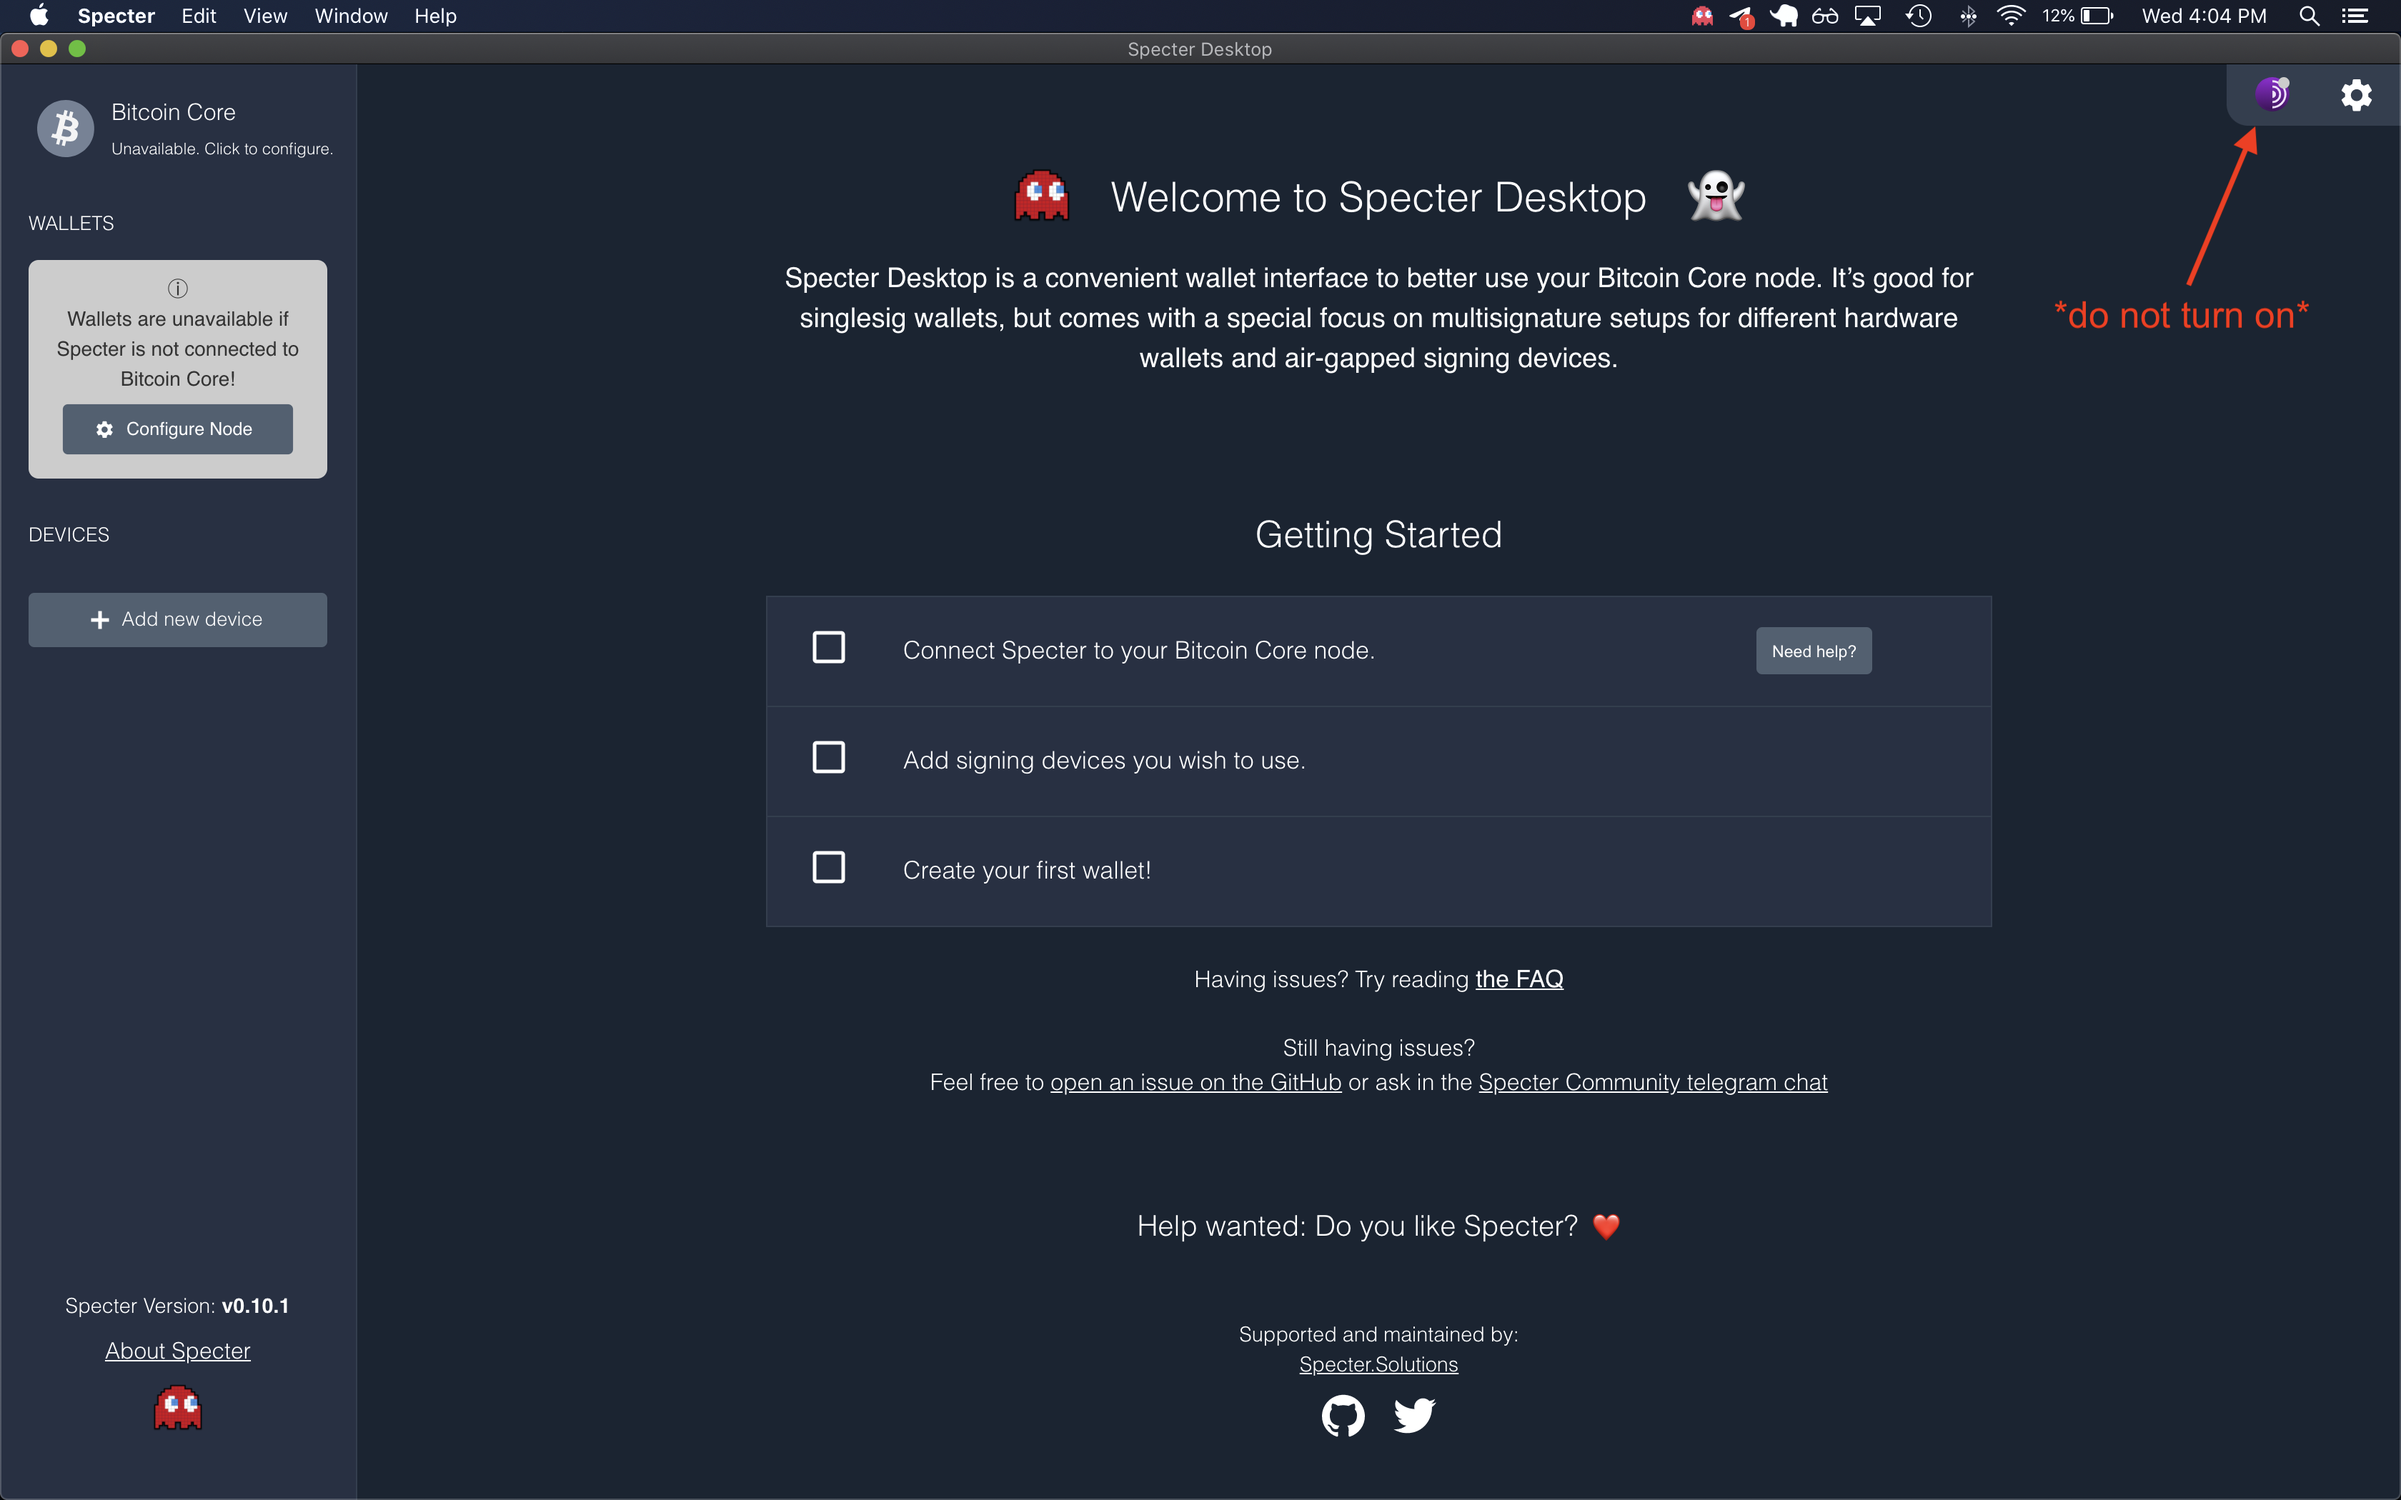
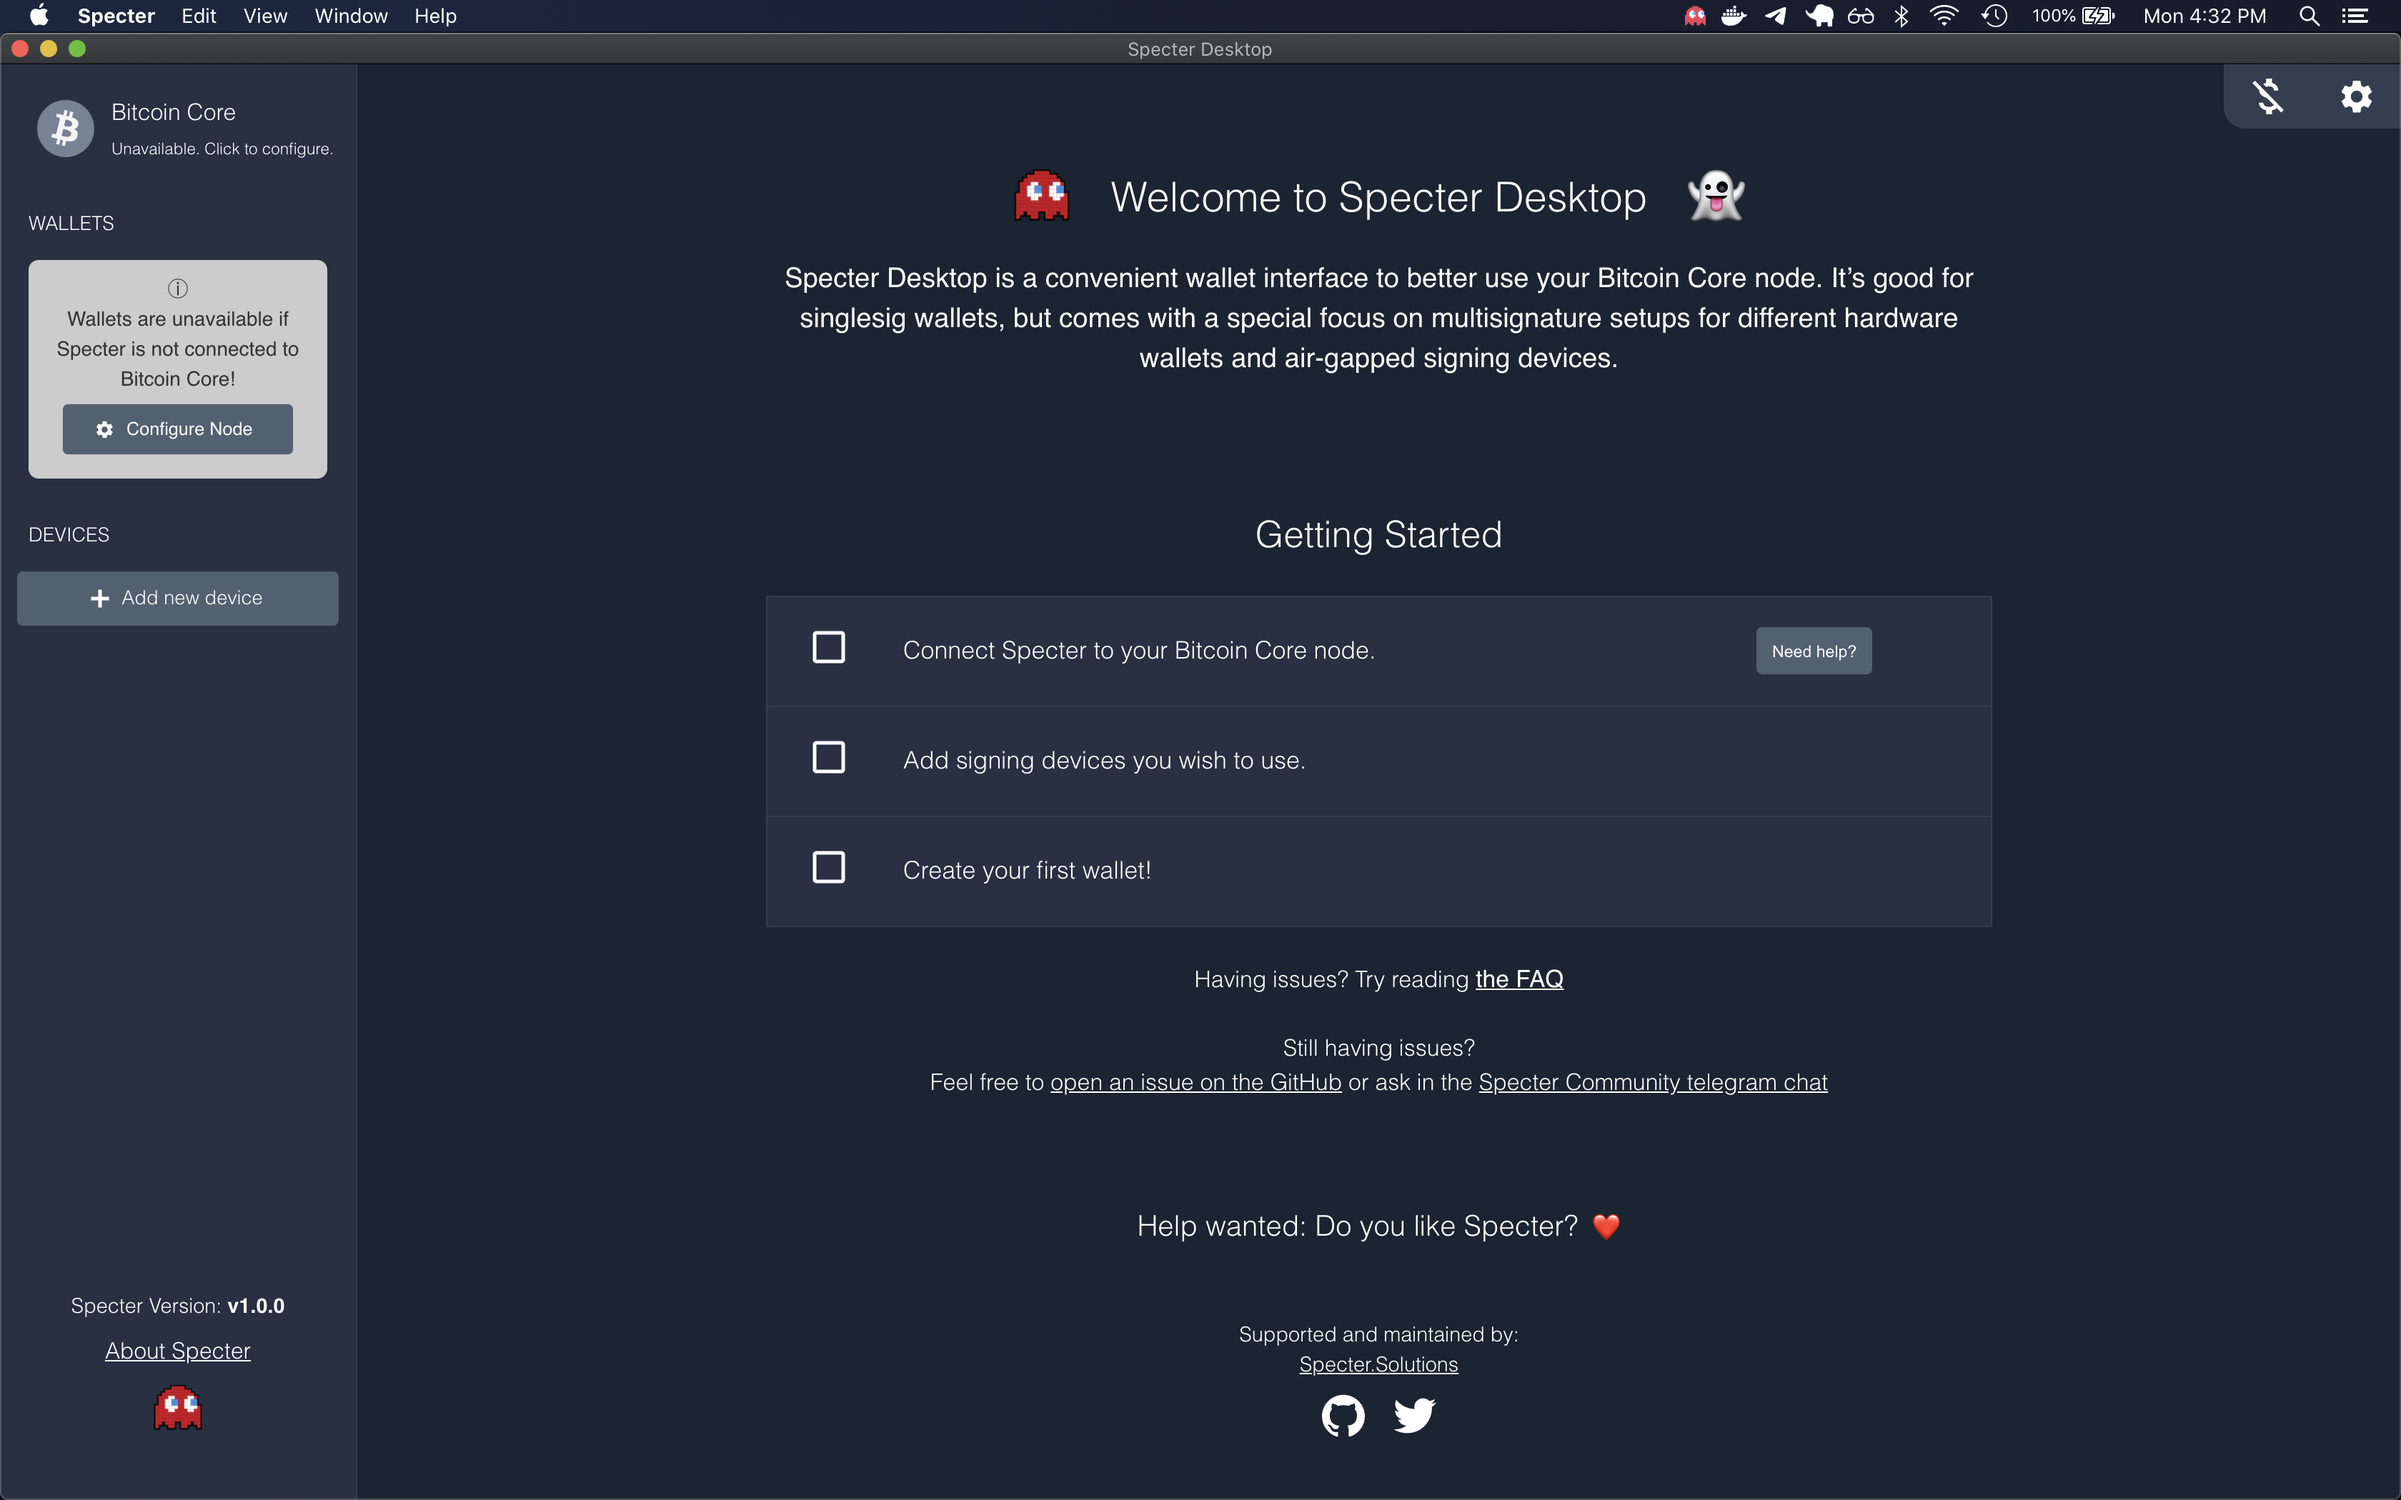
update specter guides

diff --git a/docs/integrations/specter/macos.md b/docs/integrations/specter/macos.md
@@ -1,0 +1,93 @@
+# Specter Desktop - MacOS
+
+Original Author: Community Member [@Chiefmonkey](https://twitter.com/HodlrDotRocks>)
+
+The Tor address provided by the Embassy's Bitcoin service can be used in the configuration settings for [Specter Desktop](https://github.com/cryptoadvance/specter-desktop>).
+
+## Step 1 - Install Homebrew
+
+### For macOS running on ARM chips (ie. newer macs):
+
+- macOS Homebrew running natively on M1/Apple Silicon/ARM has partial functionality. Therefore, some additional steps are needed to setup Homebrew.
+
+- Open a command line editor (Terminal), and run the following commands:
+
+  ``softwareupdate --install-rosetta``
+
+  ``arch -x86_64 /bin/bash -c "$(curl -fsSL https://raw.githubusercontent.com/Homebrew/install/master/install.sh)"``
+
+- Use this to install packages:
+
+  ``arch -x86_64 brew install <package>``
+
+:warning: macOS Homebrew running natively on M1/Apple Silicon/ARM has partial functionality
+
+### For macOS Big Sur/Catalina:
+
+- If you do not have Homebrew installed, follow the installation instructions here [here](https://brew.sh/).
+
+- tldr; Open the command line editor (Terminal) and paste the following line:
+
+  ``/bin/bash -c "$(curl -fsSL https://raw.githubusercontent.com/Homebrew/install/master/install.sh)"``
+
+- You will be prompted for your system password before installation; proceed with entering your password:
+
+![Homebrew installation](./assets/install-homebrew.png "Homebrew installation")
+
+- You will be notified which directories Homebrew is going to create, hit ``return``:
+
+![Homebrew directories](./assets/install-homebrew1.png "Homebrew directories")
+
+- Homebrew creates the directories and downloads any other files it needs e.g. “Command Line Tool for Xcode” and “Homebrew”.
+
+- Wait 5 minutes whilst it downloads and installs what it needs.
+
+Surprisingly, Homebrew uses Google Analytics to collect anonymous usage data. You can deselect the option to share usage data [by opting out](https://docs.brew.sh/Analytics#opting-out).
+
+
+## Step 2 - Install Tor
+
+:note: If you have the Tor Browser is open, close it and quit the application.
+
+- For macOS machines prior to December 2020 (pre-ARM chips), in the command line type: ``brew install tor``
+- For macOS with ARM chips, in the command line type: ``arch -x86_64 brew install tor``
+
+- See [the tor project](https://2019.www.torproject.org/docs/tor-doc-osx.html.en) for more details.
+
+- Once it is finished you have the following options:
+
+![Install Tor](./assets/install_tor.png "Install Tor")
+
+- In the command line type ``brew services start tor`` or ``arch -x86_64 services start tor``. This will start Tor and ensure that it is always running, even after a restart.
+
+## Step 3 - Download and Configure Specter
+
+- [Download Specter](https://github.com/cryptoadvance/specter-desktop/releases) at the latest release version.
+
+- Drag and drop the Specter icon into Applications once downloaded.
+
+- Launch Specter.
+
+- **Notice the Tor icon in the top right corner. *Do not turn it on*. You already have Tor running on your computer, there is no reason to also enable it in Specter.**
+
+- Click ``Connect Specter to your Bitcoin node``
+
+![Welcome](./assets/welcome.png "Welcome")
+
+- Disable `Auto-detect`
+- Obtain your credentials for Bitcoin Proxy from your Embassy:
+  - Navigate to the Bitcoin Proxy service
+  - If you have not yet already created a Bitcoin Proxy user for Specter, navigate to `Config > RPC Users` and click the (+) in the top right corner to add a new RPC user
+  - Once a RPC user for Specter is created, copy the password under this user in `Config options > RPC Users` OR navigate to `Properties > RPC users` from the Bitcoin Proxy service menu and select the user created for Specter to copy the password
+- Paste these RPC credentials in Specter in the `Bitcoin JSON-RPC configuration` menu
+- Copy and paste your Bitcoin Proxy Tor address into the Host input under `Bitcoin JSON-RPC configuration` menu
+
+![Add node](./assets/add_node.png "Add node")
+
+- Click `Test`. It can take a few minutes. If all is well several green checkboxes will appear and some config settings.
+
+![Add node](./assets/specter_test_results.png "Add node")
+
+- Click `Save`.
+
+Have a beer and some tacos before journeying further into the rabbit hole.

diff --git a/docs/integrations/specter/windows.md b/docs/integrations/specter/windows.md
@@ -1,0 +1,80 @@
+# Specter Desktop - Windows
+
+Original Author: Community Member @julian
+
+[Why Specter](https://github.com/cryptoadvance/specter-desktop/blob/master/README.md#why)
+
+## Step 1 - Install Tor on Windows
+
+:warning: **DO NOT PROCEED** before [installing Tor](https://docs.start9labs.com/misc-guides/tor-os/index.html) on your machine!
+
+## Step 2 - Configure Specter RPC user in Bitcoin Proxy
+
+- Connect to your Embassy via browser on your Windows computer. 
+
+- Open the “Bitcoin Proxy” service
+
+![Bitcoin Proxy Service](./assets/bitcoin_proxy_service.png "Select the Bitcoin Proxy Service")
+
+- (optional) Copy Tor address (this will be needed in upcoming steps)
+
+- In the Bitcoin Proxy service, under General, select “Config”
+
+![Bitcoin Proxy Config submenu](./assets/bitcoin_proxy_config.png "Select Config on the Service Detail page")
+
+- Click on “RPC Users”
+
+![Bitcoin Proxy Config RPC User submenu](./assets/bitcoin_proxy_rpc.png "Bitcoin Proxy Config RPC User submenu")
+
+- Click on the “+” symbol in the upper-right corner to add a new user
+
+![Bitcoin Proxy Config RPC submenu](./assets/bitcoin_proxy_add_rpc_user.png "Bitcoin Proxy Config RPC submenu")
+
+- Create a user for the Specter app
+- Replace default user, bitcoin, with name of choice, ex: specter
+- Save password (this will be needed in upcoming steps)
+- Go back twice, then save
+- Go back and check the current list of users to confirm your user has been created.
+
+![RPC user confirmation](./assets/bitcoin_proxy_confirm_rpc_user.png "RPC user confirmation")
+
+- Download Specter-Setup-v[*.*.*].exe [here](https://github.com/cryptoadvance/specter-desktop/releases)
+- Install Specter
+- If “Microsoft Defender SmartScreen” blocks the install, select “More info”
+
+![Windows Defender SmartScreen](./assets/windows_smartscreen.png "Windows Defender SmartScreen")
+
+- Then, select “Run Anyway”
+
+![Windows Defender SmartScreen](./assets/windows_smart_screen_run.png "Windows Defender SmartScreen")
+
+Connect Specter to Bitcoin Proxy
+--------------------------------
+
+- After installation, run Specter
+- Click “Configure Node”
+
+![Specter Configure Node](./assets/specter_configure_node.png "Specter Configure Node")
+
+- Uncheck Auto-detect
+- Insert the required information:
+    - Username and password: created in previous steps (any user with bitcoin proxy access will work)
+    - Host: Bitcoin proxy Tor address 
+    - Port:8332
+- Save
+- Click Test 
+
+![Specter RPC configuration](./assets/specter_rpc_configuration.png "Select 'Test' to ensure the credentials are working properly")  
+
+- Ensure all tests pass
+
+![Specter RPC configuration test results view](./assets/specter_test_results.png "Specter RPC configuration test results view")
+
+**That's it!** Your Embassy's Bitcoin node is now connected to Specter. 
+
+### Note:
+If you notice this message:
+
+![Bitcoin Core Node info](./assets/core_info_error.jpg "Bitcoin Core Node info")
+
+Currently, ``blockfilterindex`` is disabled for pruned Bitcoin Core nodes, so you won't be able to enable it on your Embassy. Start9 is working on a workaround.
